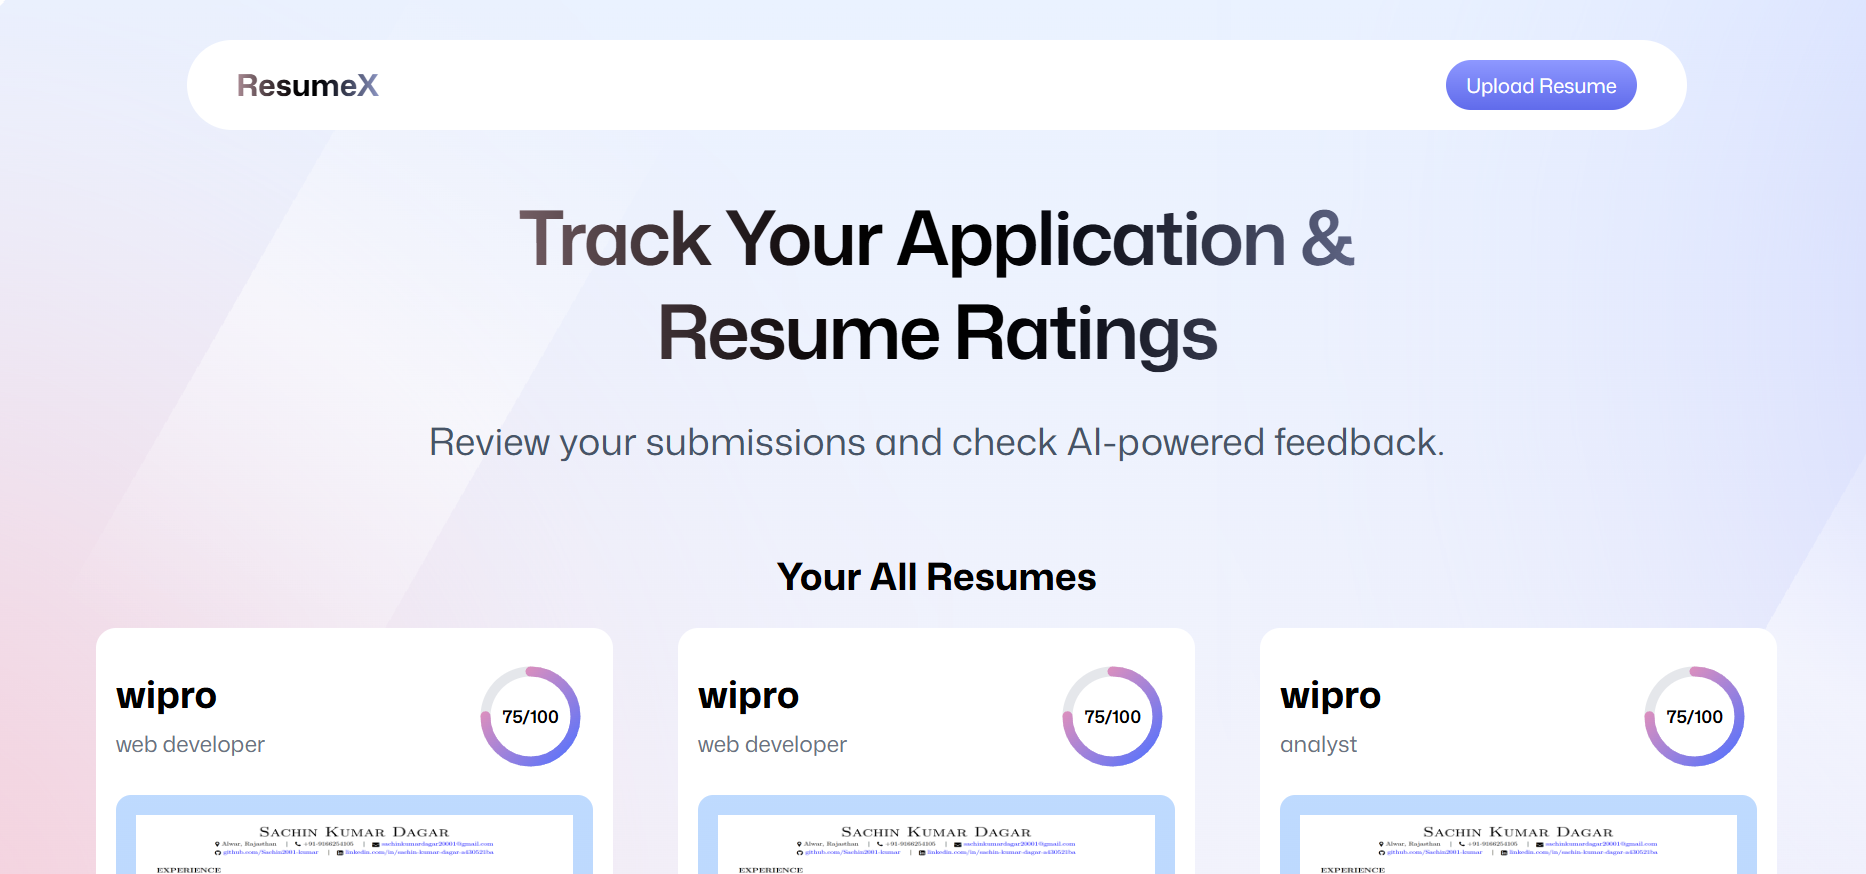
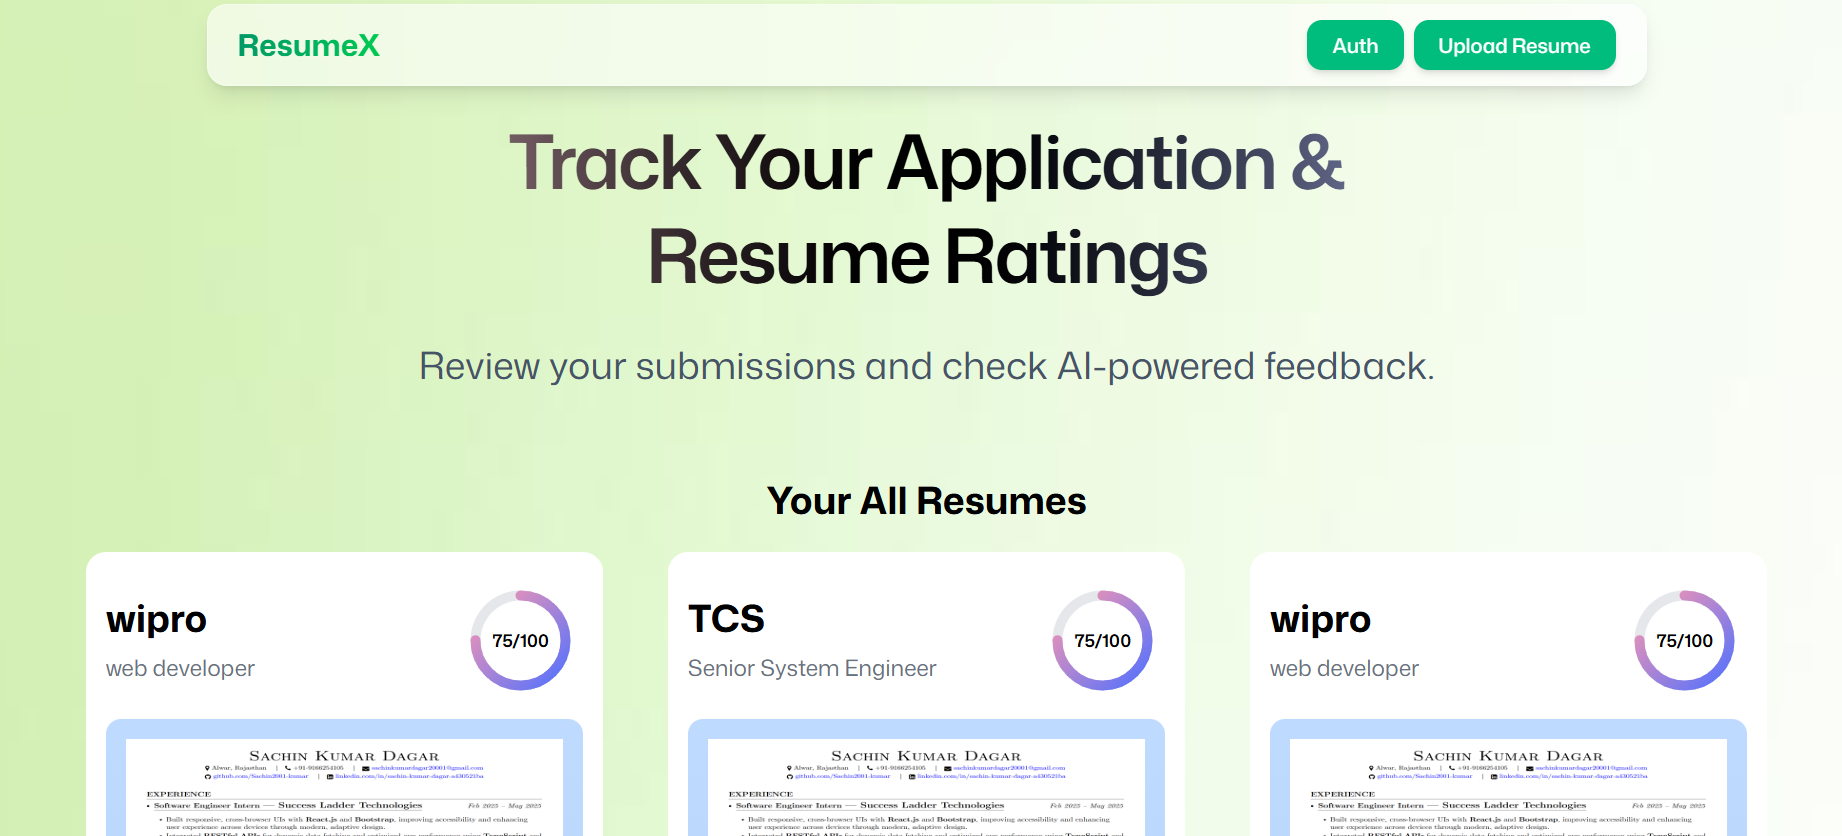
updated the UI and resolve AI Model error

diff --git a/app/routes/auth.tsx b/app/routes/auth.tsx
@@ -1,58 +1,101 @@
 import { useEffect } from "react";
 import { useLocation, useNavigate } from "react-router";
-import { usePuterStore } from "~/lib/puter"
+import { usePuterStore } from "~/lib/puter";
 
-export const meta =()=>{[
-    {title:'ResumeX- Login'},
-    {name:'description', content:'Login to your ResumeX account'}
-
-]}
+export const meta = () => {
+  [
+    { title: "ResumeX- Login" },
+    { name: "description", content: "Login to your ResumeX account" },
+  ];
+};
 
 const auth = () => {
-    const {isLoading,auth} = usePuterStore();
-    const location =useLocation();
-    const next =location.search.split("next=")[1];
-    const navigate=useNavigate();
+  const { isLoading, auth } = usePuterStore();
+  const location = useLocation();
+  const next = location.search.split("next=")[1];
+  const navigate = useNavigate();
 
-    useEffect(()=>{
-      if(auth.isAuthenticated && next){
-        navigate(next);
-      }
-    },[auth.isAuthenticated,next])
+  useEffect(() => {
+    if (auth.isAuthenticated && next) {
+      navigate(next);
+    }
+  }, [auth.isAuthenticated, next]);
   return (
-    
-    <main  className="bg-[url('images/bg-auth.svg')] flex items-center justify-center min-h-screen bg-cover">
-        <div className="gradient-border shadow-lg">
-            <section className="flex flex-col gap-8 bg-white rounded-2xl p-10">
-                <div className="flex flex-col gap-2 text-center items-center">
-                <h1>
-                    Welcome
-                </h1>
-                <h2>Log In to continue Your Job Journey</h2>
-                </div>
-                <div>
-                    {isLoading ? (
-                      <button className="auth-button animate-pulse">
-                        <p>Signing you in...</p>
-                      </button>
-                    ):(
-                        <>{auth.isAuthenticated?(
-                            <button className="auth-button" onClick={auth.signOut}>
-                                <p>Sign Out</p>
-                            </button>
-                        ):(
-                         <button className="auth-button" onClick={auth.signIn}>
-                                <p>Sign In</p>
-                            </button>
-                        )}
-                        </>
-                    )}
-                </div>
-                
-            </section>
-        </div>
-    </main>
-  )
-}
+    <main className="h-screen overflow-hidden bg-[url('/images/bg-new2.jpg')] bg-cover bg-center">
+      <div className="grid grid-cols-1 md:grid-cols-2 h-full">
+        {/* LEFT SIDE IMAGE */}
+        <div className="hidden md:flex relative items-center justify-center p-10">
+          <img
+            src="/images/auth-illustration.png"
+            alt="Resume Illustration"
+            className="w-[80%] max-w-md drop-shadow-2xl z-10"
+          />
 
-export default auth
+          <div
+            className="absolute top-16 left-10 
+                  bg-white/80 backdrop-blur-md
+                  px-4 py-3 rounded-xl shadow-lg
+                  text-sm font-medium
+                  animate-float"
+          >
+            ⭐ Resume Score:{" "}
+            <span className="text-emerald-600 font-bold">85/100</span>
+          </div>
+
+          <div
+            className="absolute bottom-20 right-16 
+                  bg-white/80 backdrop-blur-md
+                  px-4 py-3 rounded-xl shadow-lg
+                  text-sm font-medium
+                  animate-float delay-200"
+          >
+            🤖 AI Powered Analysis
+          </div>
+
+          <div
+            className="absolute top-32 right-8 
+                  bg-emerald-500 text-white
+                  px-3 py-2 rounded-full text-xs shadow-md
+                  animate-bounce"
+          >
+            New Feedback!
+          </div>
+        </div>
+
+        {/* RIGHT SIDE AUTH CARD */}
+        <div className="flex items-center justify-center p-6">
+          <div className="gradient-border shadow-xl">
+            <section className="flex flex-col gap-8 bg-white/90 backdrop-blur-md rounded-2xl p-10 w-full max-w-md">
+              <div className="flex flex-col gap-2 text-center items-center">
+                <h1 className="text-4xl font-bold bg-linear-to-r from-emerald-600 to-green-500 bg-clip-text text-transparent">
+                  Welcome
+                </h1>
+                <h2 className="text-gray-600">
+                  Log in to continue your job journey
+                </h2>
+              </div>
+
+              <div>
+                {isLoading ? (
+                  <button className="auth-button animate-pulse">
+                    Signing you in...
+                  </button>
+                ) : auth.isAuthenticated ? (
+                  <button className="auth-button" onClick={auth.signOut}>
+                    Sign Out
+                  </button>
+                ) : (
+                  <button className="auth-button" onClick={auth.signIn}>
+                    Sign In
+                  </button>
+                )}
+              </div>
+            </section>
+          </div>
+        </div>
+      </div>
+    </main>
+  );
+};
+
+export default auth;

diff --git a/app/app.css b/app/app.css
@@ -3,8 +3,9 @@
 @import "tw-animate-css";
 
 @theme {
-  --font-sans: "Mona Sans", ui-sans-serif, system-ui, sans-serif,
-  "Apple Color Emoji", "Segoe UI Emoji", "Segoe UI Symbol", "Noto Color Emoji";
+  --font-sans:
+    "Mona Sans", ui-sans-serif, system-ui, sans-serif, "Apple Color Emoji",
+    "Segoe UI Emoji", "Segoe UI Symbol", "Noto Color Emoji";
   --color-dark-200: #475467;
   --color-light-blue-100: #c1d3f81a;
   --color-light-blue-200: #a7bff14d;
@@ -72,10 +73,20 @@ form {
     @apply flex flex-row items-center gap-2 border border-gray-200 rounded-lg p-2 shadow-sm;
   }
   .auth-button {
-    @apply primary-gradient rounded-full py-4 px-8 cursor-pointer w-150 max-md:w-full text-3xl font-semibold text-white;
+    @apply flex items-center justify-center
+         w-full max-w-sm
+         py-3 px-6
+         rounded-xl
+         text-lg font-semibold text-white
+         bg-linear-to-r from-emerald-500 to-green-500
+         hover:from-emerald-600 hover:to-green-600
+         transition-all duration-200
+         shadow-md hover:shadow-lg
+         active:scale-95
+         cursor-pointer;
   }
   .main-section {
-    @apply flex flex-col items-center gap-8 pt-12 mx-15 pb-5;
+    @apply flex flex-col items-center gap-8 pt-16 mx-15 pb-5;
   }
   .page-heading {
     @apply flex flex-col items-center gap-8 max-w-4xl text-center;
@@ -97,9 +108,17 @@ form {
   }
 
   .navbar {
-    @apply flex flex-row justify-between items-center bg-white rounded-full p-4 w-full px-10 max-w-[1200px] mx-auto;
+    @apply fixed top-4 left-1/2 -translate-x-1/2 
+         w-[90%] max-w-6xl
+         flex justify-between items-center
+         px-6 py-3
+         rounded-2xl
+         backdrop-blur-md
+         bg-white/60
+         border border-white/40
+         shadow-lg
+         z-50;
   }
-
   .score-badge {
     @apply flex flex-row items-center justify-center py-1 px-2 gap-4 rounded-[96px];
   }
@@ -149,4 +168,19 @@ form {
   to {
     opacity: 1;
   }
+}
+.form-input {
+  @apply w-full 
+         px-5 py-3
+         rounded-xl
+         bg-white
+         border border-gray-300
+         focus:outline-none
+         focus:ring-2 focus:ring-emerald-400
+         focus:border-emerald-400
+         transition-all duration-200;
+}
+
+.form-label {
+  @apply text-sm font-medium text-gray-600 mb-2 block;
 }

diff --git a/app/components/Navbar.tsx b/app/components/Navbar.tsx
@@ -1,15 +1,46 @@
-
-import { Link } from 'react-router'
+import { Link } from "react-router";
 
 const Navbar = () => {
   return (
-    <nav className='navbar'>
-        <Link to="/">
-        <p className='font-bold text-2xl text-gradient'>ResumeX</p></Link>
-        <Link to="/upload" className='primary-button w-fit'>
-        Upload Resume</Link>
+    <nav className="navbar">
+      <Link to="/">
+        <p className="font-bold text-2xl 
+                      bg-linear-to-r 
+                      from-emerald-600 
+                      to-green-500 
+                      bg-clip-text 
+                      text-transparent">
+          ResumeX
+        </p>
+      </Link>
+      <div className="flex gap-2">
+      <Link
+        to="/auth"
+        className="px-5 py-2 rounded-xl 
+                   bg-emerald-500 
+                   hover:bg-emerald-600 
+                   text-white 
+                   font-medium 
+                   transition-all duration-200 
+                   shadow-md"
+      >
+        Auth
+      </Link>
+      <Link
+        to="/upload"
+        className="px-5 py-2 rounded-xl 
+                   bg-emerald-500 
+                   hover:bg-emerald-600 
+                   text-white 
+                   font-medium 
+                   transition-all duration-200 
+                   shadow-md"
+      >
+        Upload Resume
+      </Link>
+      </div>
     </nav>
-  )
-}
+  );
+};
 
-export default Navbar
+export default Navbar;

diff --git a/app/components/Footer.tsx b/app/components/Footer.tsx
@@ -2,8 +2,8 @@ import React from "react";
 
 const Footer = () => {
   return (
-    <footer className="bg-gray-300 border-t">
-      <div className="max-w-7xl mx-auto px-6 py-16">
+    <footer className="bg-gray-400 border-t">
+      <div className="max-w-7xl mx-auto px-6 py-8">
         <div className="flex flex-col sm:flex-row justify-between gap-12">
           <div>
             <h3 className="text-lg font-semibold mb-6">Get started</h3>
@@ -30,15 +30,12 @@ const Footer = () => {
               <li>Blog</li>
               <li>Resume Guides</li>
               <li>Cover Letter Guides</li>
-              <li>Job Interview Guides</li>
-              <li>Job Interview Questions</li>
-              <li>Career Resources</li>
             </ul>
           </div>
         </div>
 
         {/* Bottom Copyright */}
-        <div className="border-t mt-16 pt-6 text-sm text-gray-800 text-center">
+        <div className="border-t mt-10 pt-6 text-sm text-gray-900 text-center">
           © {new Date().getFullYear()} ResumeX. All rights reserved.
         </div>
       </div>

diff --git a/app/routes/home.tsx b/app/routes/home.tsx
@@ -45,7 +45,11 @@ export default function Home() {
     },[])
 
     
-  return <main className="bg-[url('images/bg-main.svg')]">
+  return <main className="pt-32 bg-[url('/images/bg-new2.jpg')] 
+                 bg-cover 
+                 bg-center 
+                 bg-no-repeat 
+                 min-h-screen">
     <Navbar/>
     <section className="main-section">
       <div className="page-heading mb-10">
@@ -60,7 +64,7 @@ export default function Home() {
       </div>
       {loadResumes && (
           <div className="flex flex-col items-center justify-center">
-            <img src="/images/resume-scan-2.gif" className="w-50" />
+            <img src="/images/resume-scanner.gif" className="w-50" />
           </div>
       )}
        { !loadResumes && resumes.length > 0 && (

diff --git a/app/routes/resume.tsx b/app/routes/resume.tsx
@@ -73,7 +73,7 @@ const resume = () => {
             {/* <Details feedback={feedback}/> */}
             </div>
           ):(
-            <img src='public/images/resume-scan-2.gif' alt='scanning-resume' className='w-full'/>
+            <img src='/images/resume-scanner.gif' alt='scanning-resume' className='w-full'/>
           )}
         </section>
        

diff --git a/app/lib/puter.ts b/app/lib/puter.ts
@@ -350,7 +350,7 @@ export const usePuterStore = create<PuterStore>((set, get) => {
                     ],
                 },
             ],
-            { model: "claude-3-7-sonnet" }
+            { model: "gpt-4o-mini" }
         ) as Promise<AIResponse | undefined>;
     };
 

diff --git a/app/routes/upload.tsx b/app/routes/upload.tsx
@@ -77,7 +77,7 @@ const Upload = () => {
   };
 
   return (
-    <main className="bg-[url('/images/bg-main.svg')] bg-cover">
+    <main className="bg-[url('/images/bg-new2.jpg')] bg-cover">
       <Navbar />
 
       <section className="main-section">

diff --git a/app/components/FAQ.tsx b/app/components/FAQ.tsx
@@ -10,7 +10,7 @@ import { faqData } from "~/lib/data";
 
 const FAQ = () => {
   return (
-    <section className="w-full bg-blue-100 py-12">
+    <section className="w-full bg-transparent py-12">
 
       <div className="max-w-6xl mx-auto px-4">
 

diff --git a/app/components/HeroSection.tsx b/app/components/HeroSection.tsx
@@ -1,0 +1,9 @@
+import React from 'react'
+
+const HeroSection = () => {
+  return (
+    <div>HeroSection</div>
+  )
+}
+
+export default HeroSection
